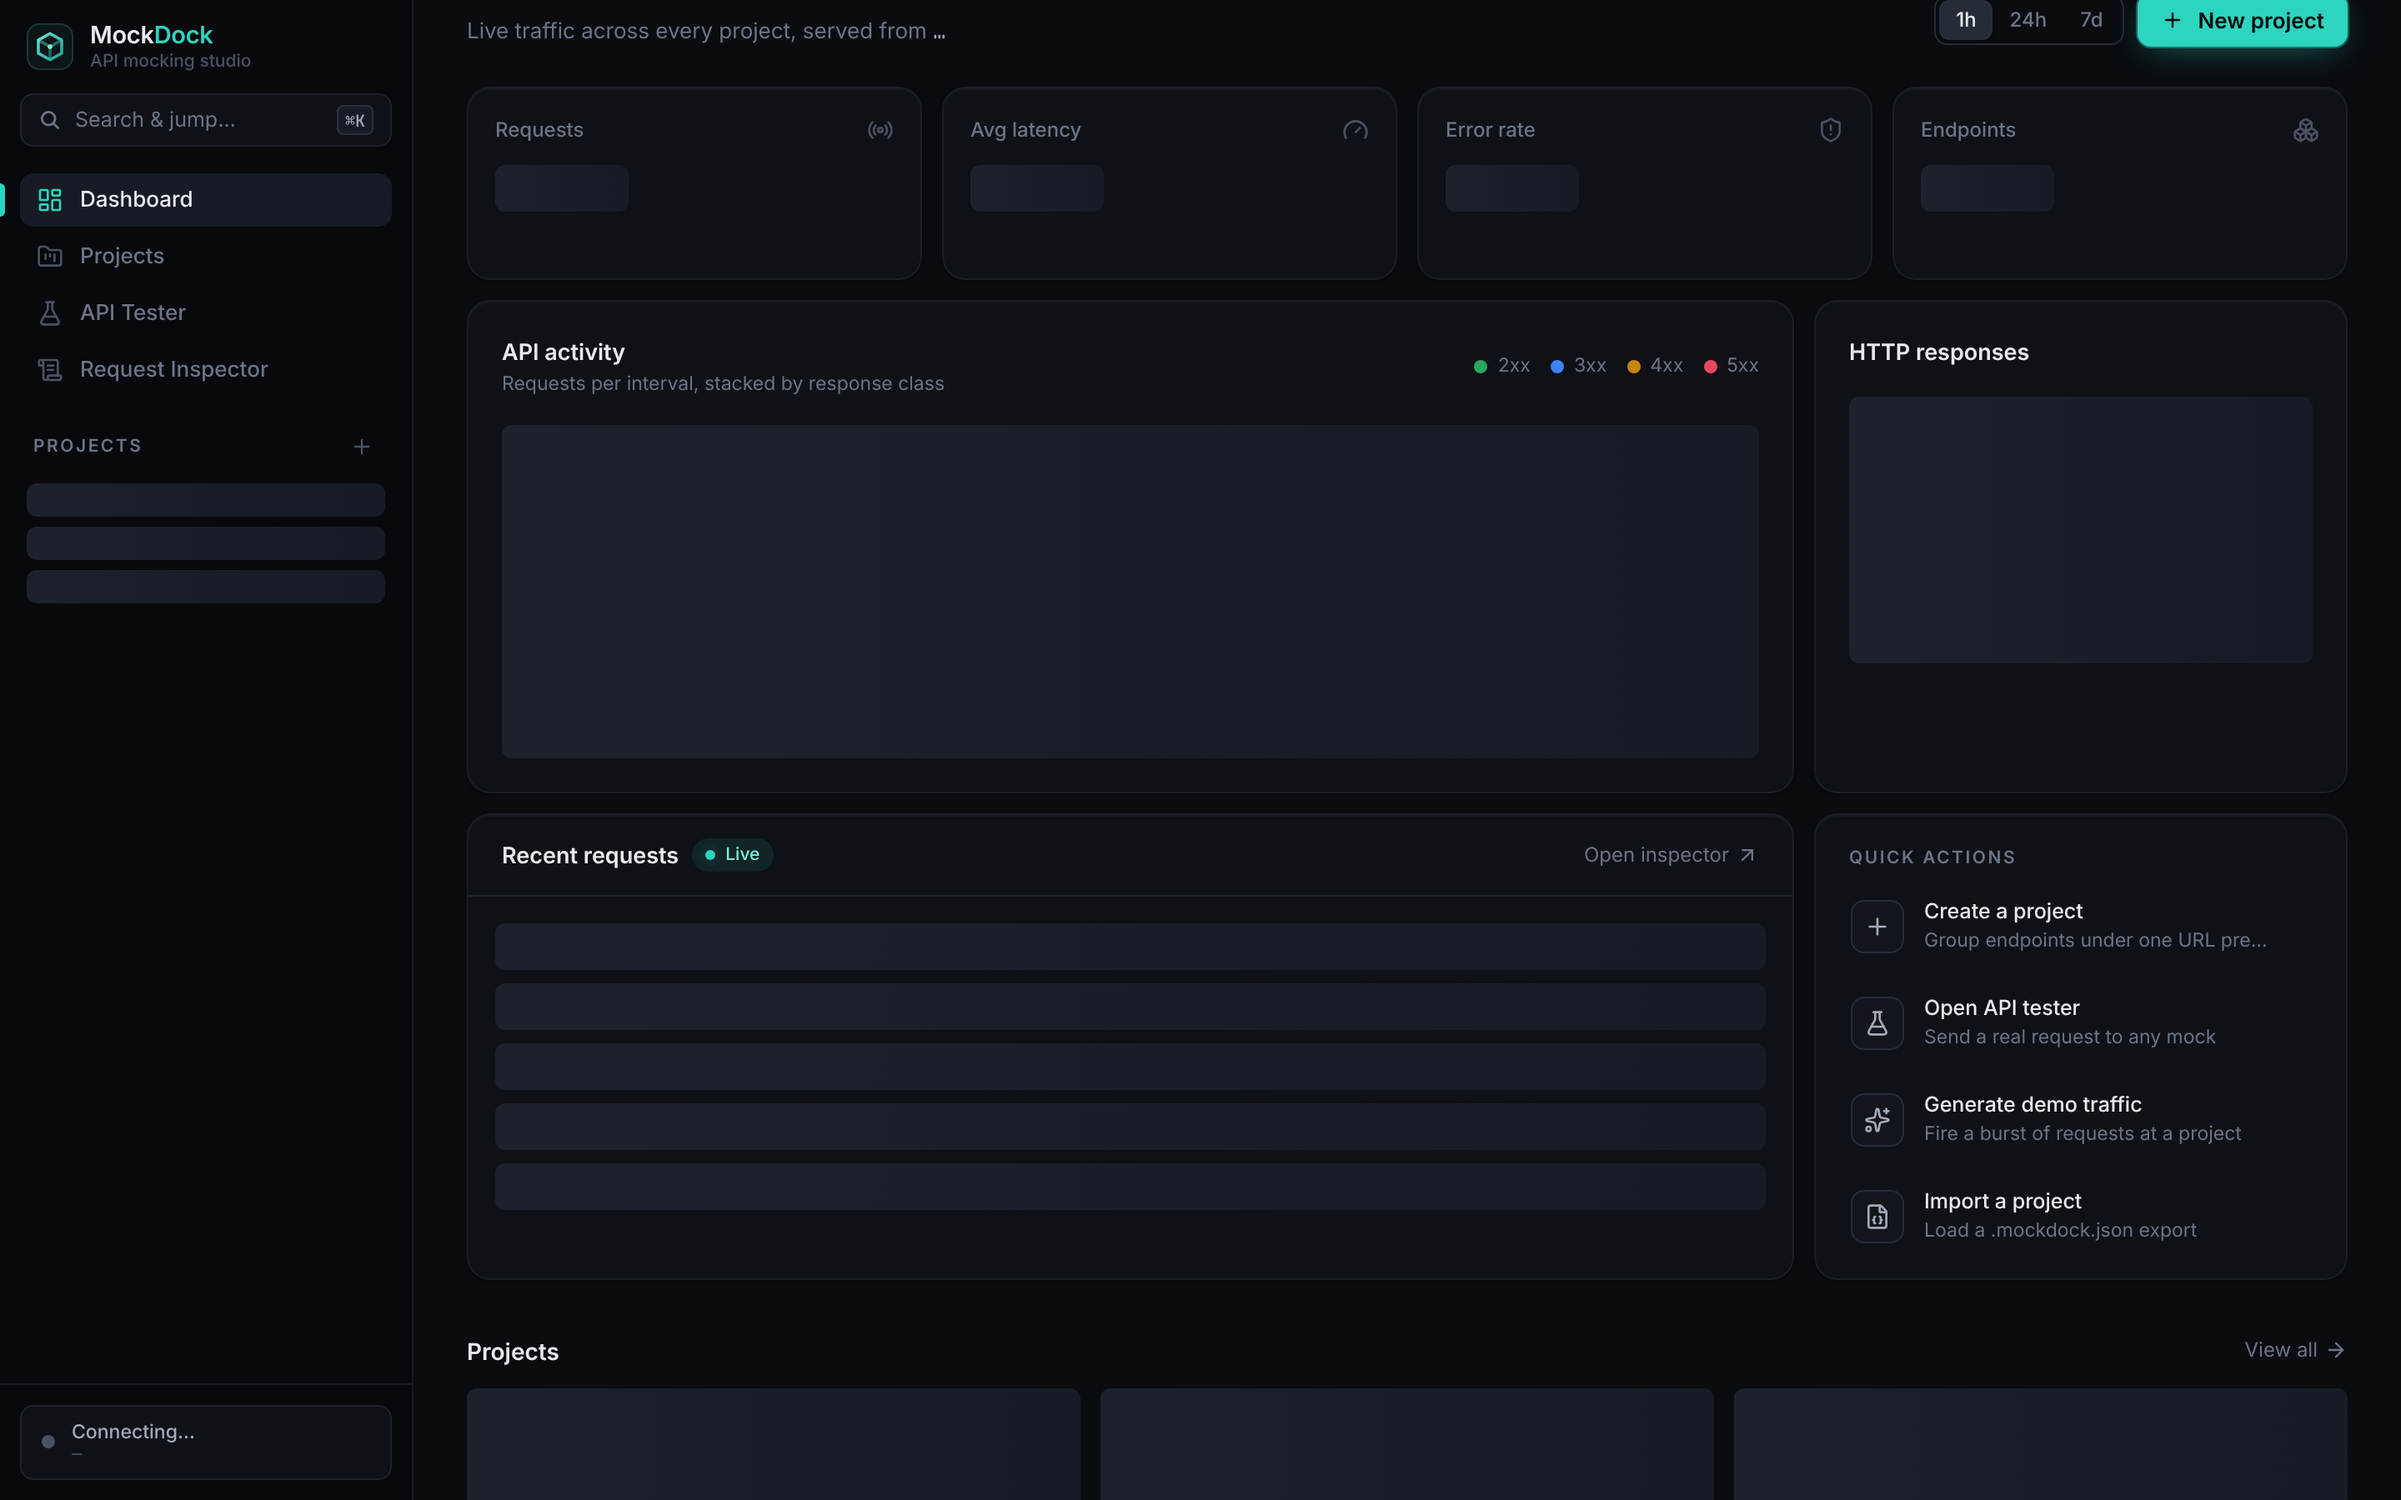
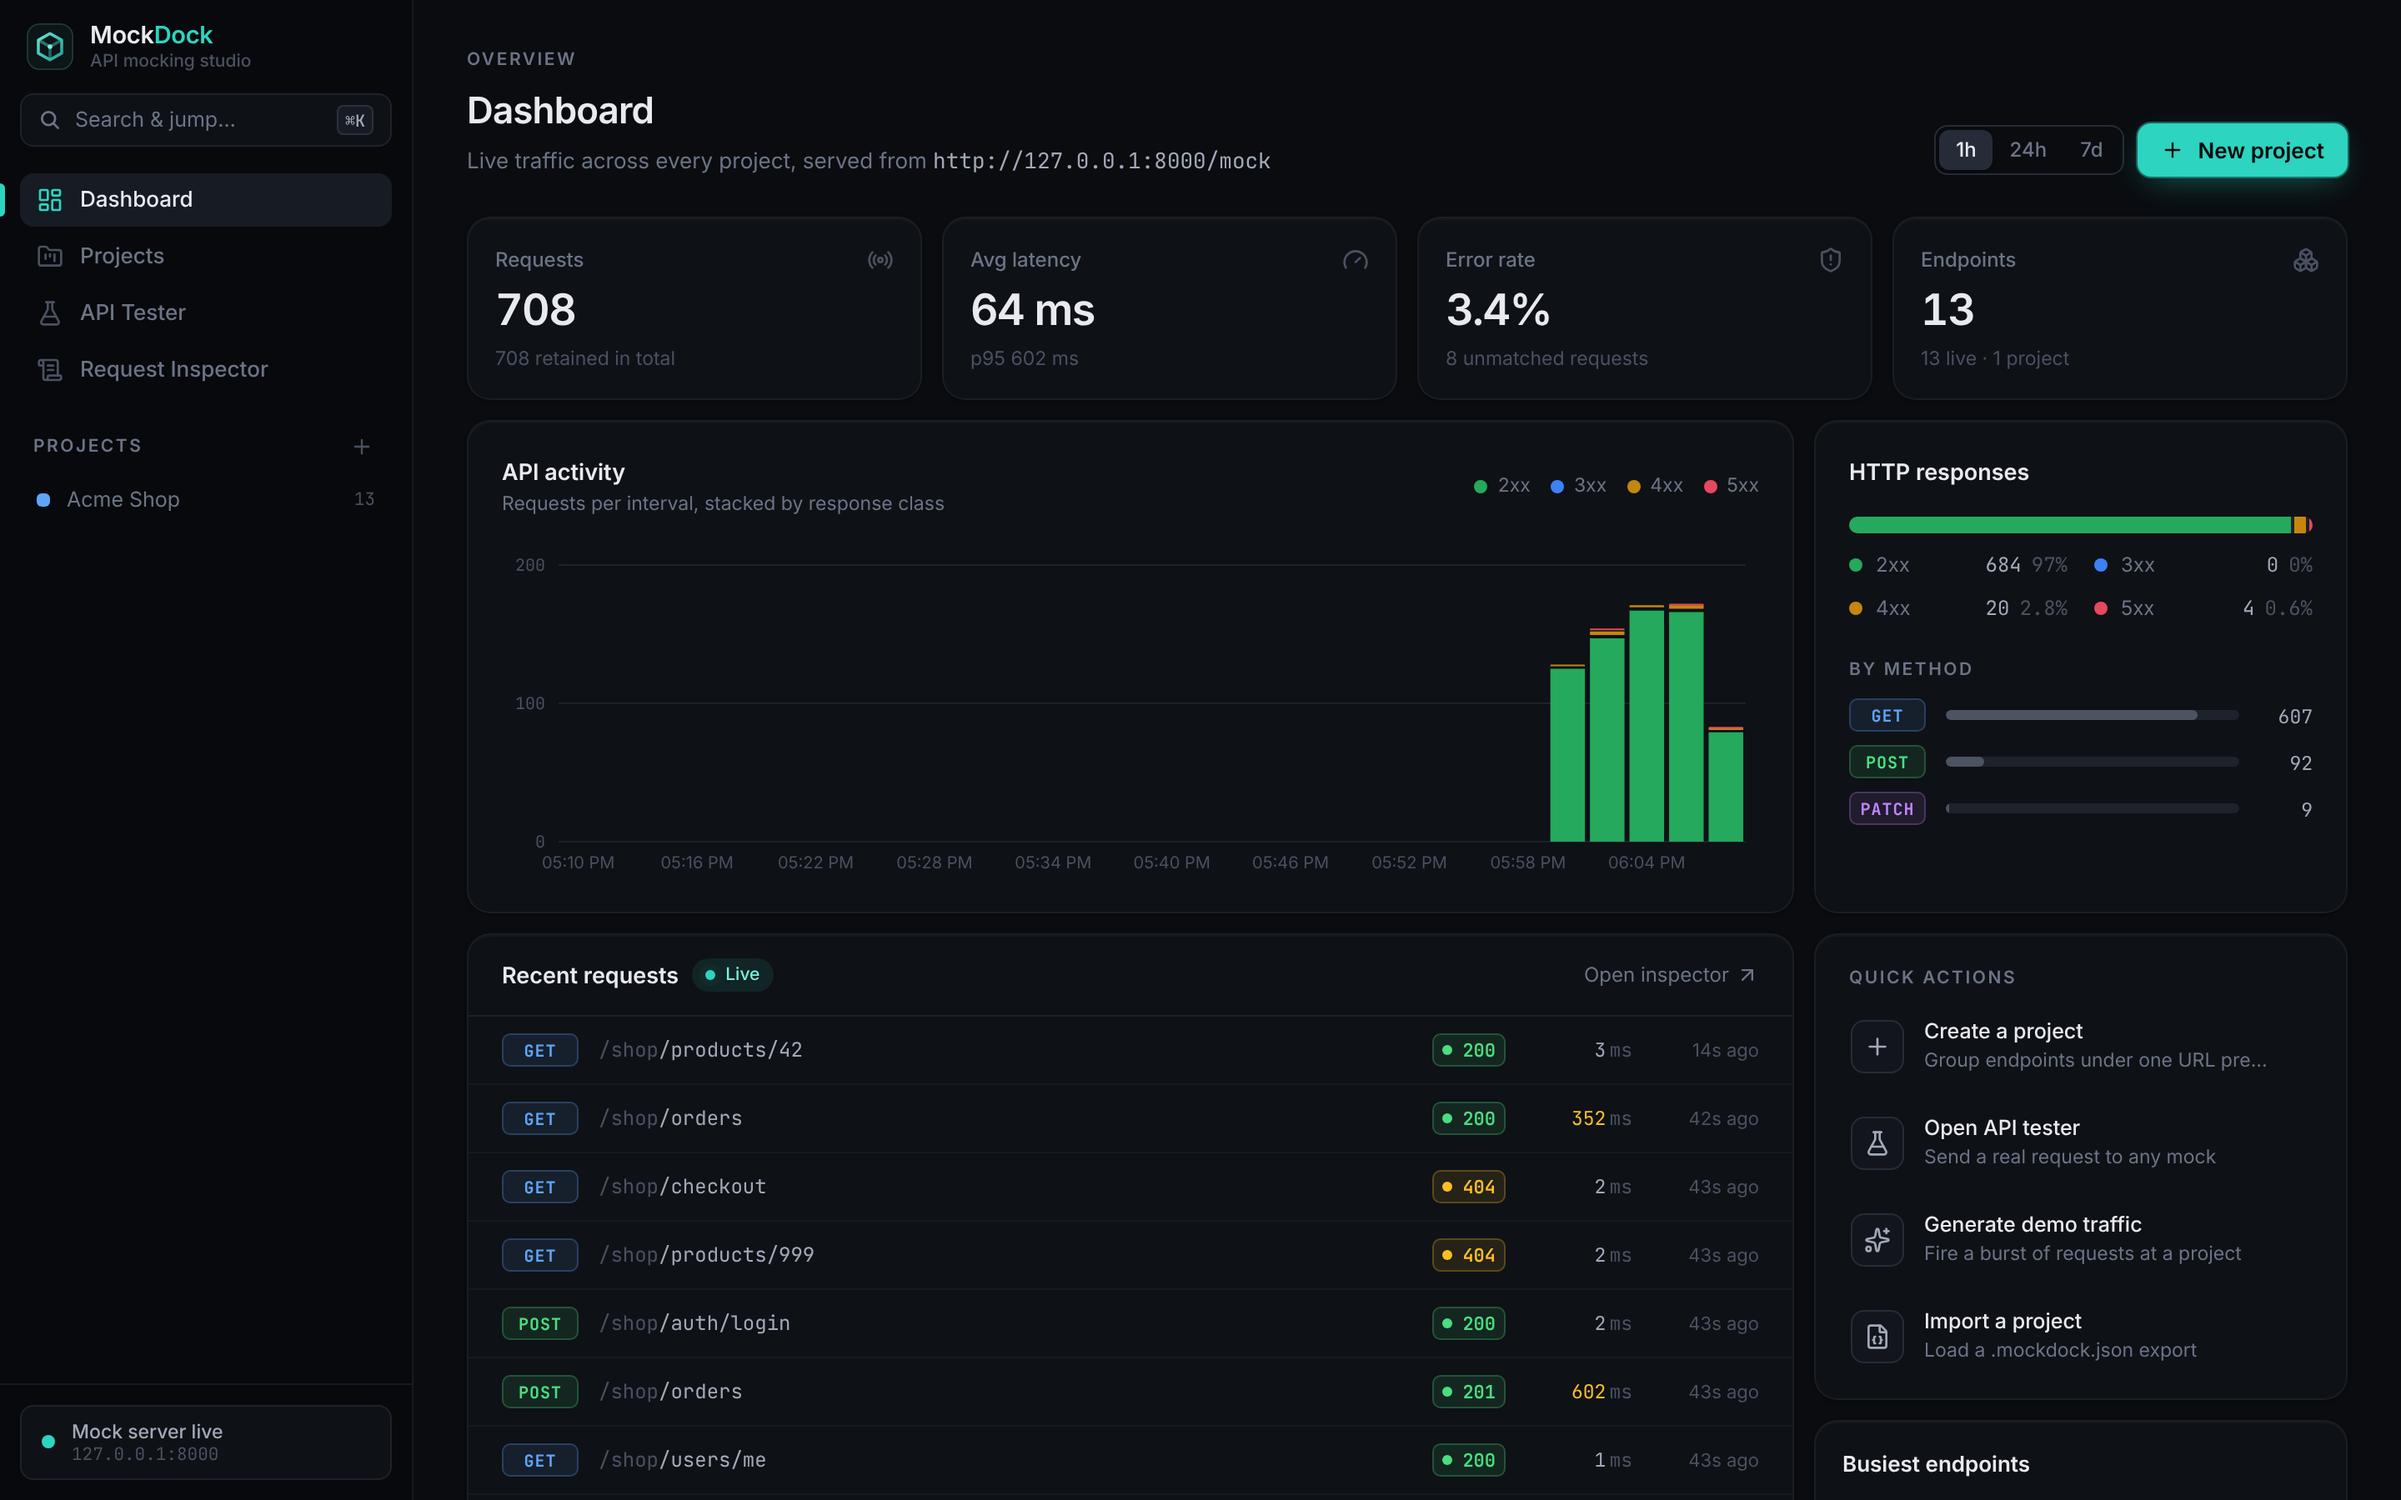
Add engineering report and README screenshots captured from the running app
Claude-Session: https://claude.ai/code/session_01Sy5Yw6uo3XUudnYxT4YKEi

diff --git a/docs/ENGINEERING_REPORT.md b/docs/ENGINEERING_REPORT.md
@@ -1,0 +1,114 @@
+# MockDock: Engineering Report
+
+This report covers the overnight build. All results below come from commands actually run in the build environment: Linux, Python 3.13, Node 22, headless Chromium via Playwright.
+
+## 1. Delivered
+
+| Deliverable | Location |
+| --- | --- |
+| FastAPI backend: management API, live mock server, request logging, stats | `backend/app/` |
+| SQLite persistence with reproducible, versioned schema init + seeded sample | `backend/app/models.py`, `db.py`, `seed.py` |
+| React + TypeScript + Tailwind + Monaco studio UI | `frontend/src/` |
+| Automated tests (backend, frontend, live smoke, browser walkthrough) | `backend/tests/`, `frontend/src/test/`, `scripts/live_smoke.py`, `e2e/ui-workflow.cjs` |
+| One-command workflows | `Makefile`, `scripts/dev.sh` |
+| CI workflow (pytest, smoke, type-check, vitest, build) | `.github/workflows/ci.yml` (not run: no CI in this environment) |
+| Documentation | `README.md`, `HANDOVER.md`, this file |
+
+## 2. Verification results
+
+### Automated suites
+
+| Suite | Command | Result |
+| --- | --- | --- |
+| Backend unit + integration | `cd backend && .venv/bin/pytest` | **79 passed** |
+| Frontend type-check | `cd frontend && npx tsc -b` | **0 errors** (strict mode) |
+| Frontend unit + component | `cd frontend && npm test` | **36 passed** |
+| Frontend production build | `npm run build` | **success** (Monaco is lazy-loaded; main chunk ≈ 480 kB / 149 kB gzip) |
+| Live server smoke test | `make smoke` | **12/12 checks passed** |
+| Browser walkthrough (dev server, :5173) | `node e2e/ui-workflow.cjs` | **passed** |
+| Browser walkthrough (built UI served by FastAPI, :8000) | `node e2e/ui-workflow.cjs http://127.0.0.1:8000` | **passed** |
+
+### The 12 required scenarios
+
+| # | Scenario | Verified by |
+| --- | --- | --- |
+| 1 | Create a project | smoke #1, e2e (UI dialog), `test_projects_api.py` |
+| 2 | Create a mock GET endpoint | smoke #2, e2e (typed into Monaco), `test_endpoints_api.py` |
+| 3 | Send a real HTTP request | smoke #3 (real uvicorn process over TCP), e2e (API tester) |
+| 4 | Verify configured JSON | smoke #4, e2e asserts `{"id": 42, "name": "Alice"}` |
+| 5 | Modify response, verify change | smoke #5, e2e (status → 201, saved with ⌘S, re-fetched), `test_changes_apply_without_restart` |
+| 6 | POST with JSON body | smoke #6 (`{{body.name}}` echo), `test_post_with_json_body_and_templating` |
+| 7 | Artificial delay | smoke #7 (754 ms measured for a 750 ms delay), `test_artificial_delay`, `test_delay_is_capped_by_settings` |
+| 8 | Simulated server errors | smoke #8 (500 via scenario, 503 via 100% random failure), e2e (failure slider), `test_error_scenarios` (400/401/404/500), `test_random_failures` |
+| 9 | Request logging | smoke #9 (incl. `Bearer [REDACTED]`), e2e (inspector rows + detail), `test_request_logging_with_redaction` |
+| 10 | Persistence after restart | smoke #10 (real server stopped and restarted on the same DB file), `test_configuration_persists_across_restart` |
+| 11 | Invalid inputs and missing endpoints | smoke #11 (422, 422, 422, 409, 404, 404, 405), `test_endpoint_validation` (14 invalid cases), `test_unknown_project_route_and_method` |
+| 12 | Frontend build and backend tests | table above |
+
+### Manual and visual checks (headless Chromium screenshots, reviewed)
+
+- I reviewed the dashboard, projects, endpoint editor (responses and failure tabs), tester, inspector, command palette and new-project dialog at 1440×900.
+- I checked the dashboard, editor and inspector at iPhone 13 size. No horizontal page overflow was measured on the inspector.
+- I checked these behaviours: the duplicate-route error banner and toast, inline path validation, and the "discard unsaved changes" confirmation.
+- No console errors appeared during the walkthroughs, apart from the expected network errors for requests the tests deliberately sent to 404/500 mocks.
+
+Problems found this way and fixed:
+
+| Problem | Fix |
+| --- | --- |
+| Monaco flagged valid bare `{{placeholders}}` | Built-in JSON diagnostics replaced with template-aware markers |
+| Word-suggestion popups got in the way of typing | Turned off |
+| Logo gradient broke in the mobile header (duplicate SVG id) | Unique gradient ids |
+| Inspector time column wrapped | Fixed width, no wrapping |
+| Tester editors didn't fill their panels | Editors now fill the available height |
+| Dashboard advertised the dev-proxy URL instead of the real server address | Dashboard now shows the server's own address |
+| Stale project queries refetched after delete (404 noise) | Queries for a deleted project are removed |
+
+## 3. Engineering review: weaknesses found and fixed
+
+| Finding | Fix |
+| --- | --- |
+| Templates could echo secrets (e.g. `{{body.password}}`) into the *logged* response body | Response bodies are now redacted before logging too (`test_echoed_secrets_are_redacted_in_logged_response`) |
+| Redaction re-serialised every JSON body, changing its formatting | The original text is kept when nothing sensitive was found |
+| `{{ and }}` in normal text was swallowed as an unknown placeholder | Only recognised expressions are substituted |
+| Stats buckets could drop the newest requests (window misaligned) | Buckets aligned so the last one contains "now" |
+| `range` query parameter shadowed a Python builtin and crashed | Renamed with a FastAPI alias |
+| Newly created or duplicated endpoint briefly showed "not found" | The query cache is updated immediately on success |
+| Browsers' `JSON.parse` errors often lack a position | Small JSON syntax checker that reports the exact offset |
+| Static UI serving | Path traversal tested (`test_static_serving_does_not_escape_dist`) |
+
+Security posture:
+
+- The server binds to 127.0.0.1, and CORS allows only the local UI origins (tested, including a rejected preflight).
+- The mock namespace is isolated from `/api` (tested, including encoded `..` traversal).
+- There's no code execution in templating.
+- Header CR/LF injection and overriding hop-by-hop headers are rejected.
+- Request bodies are capped at 1 MB (413), and delays are capped.
+- No secrets live in the repository.
+
+## 4. Not tested or not done
+
+- **CI workflow**: written but never run (no GitHub Actions here).
+- **Other environments**: no testing on Windows or macOS, or on Python versions other than 3.13. CI targets 3.12.
+- **Browsers**: only headless Chromium was used. Firefox and Safari weren't tried.
+- **Accessibility**: no screen-reader audit was done. Controls have labels and roles, and focus rings are visible, but this hasn't been checked with assistive tech.
+- **Load**: there's no load or performance testing beyond basic latency observations (2–6 ms per mock request locally).
+- **Import UI**: the drag-and-drop import UI wasn't exercised in the browser. The import API is covered by tests.
+
+## 5. Known limitations and remaining issues
+
+- There's no authentication. It's a single-user local tool and must not be exposed to untrusted networks.
+- Mocks are stateless, and matching is on method + path only (no query/header/body conditions).
+- Live views poll every 2–4 s instead of pushing updates.
+- The unsaved-changes guard covers switching endpoints and closing the tab, but not sidebar navigation.
+- The Monaco bundle is large (≈ 2.7 MB raw for the editor core). It's lazy-loaded, but the first editor open takes a moment.
+- `npm audit` reports advisories in transitive dev dependencies. They weren't investigated, and they don't affect the runtime bundle.
+
+## 6. Recommended next steps
+
+1. Conditional matching rules (query/header/body) and stateful "collection" mocks.
+2. Server-sent events for the inspector and dashboard.
+3. OpenAPI import and export.
+4. A record/proxy mode that forwards unmatched requests to a real API and saves the responses as scenarios.
+5. A router-level navigation blocker (move to a data router) for full unsaved-change protection.
+6. Run CI on GitHub and add Firefox/WebKit to the Playwright walkthrough.

diff --git a/README.md b/README.md
@@ -63,7 +63,7 @@ No backend code, no cloud account, and no internet connection needed. Everything
 - **Route matching** (`app/mock/matcher.py`) is a small pure-function module. The most specific route wins: `/users/me` beats `/users/:id`.
 - **Schema** comes from the SQLAlchemy models (`create_all`) and is versioned with SQLite's `PRAGMA user_version`. There's a migration hook in `app/db.py`.
 
-More detail, written for newcomers, is in **[HANDOVER.md](HANDOVER.md)**.
+More detail, written for newcomers, is in **[HANDOVER.md](HANDOVER.md)**. Verification results are in **[docs/ENGINEERING_REPORT.md](docs/ENGINEERING_REPORT.md)**.
 
 ```
 MockDock/
